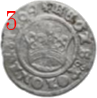
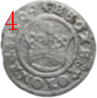
acum chiar e gata (sper)

Changed region(s): [[0.0309, 0.0918, 0.1856, 0.3061]]

diff --git a/Scripts/extract_imagine.py b/Scripts/extract_imagine.py
@@ -18,10 +18,11 @@ def magic(imagepath: str):
     epsilonper = 1
     epsilonbright = 0.005
     epsilondark = 0.005
-    symmetrystep = 0.051
-    symmetrythresh = 0.2
+    symmetrystep = 0.017
+    symmetrythresh = 0.04
     lowfilldiff = 5
     highfilldiff = 5
+    finalsymmetrythresh = 0.985
 
     ##########################################################################################################
 
@@ -37,7 +38,7 @@ def magic(imagepath: str):
     def adaugare_numar (a, num):
         draw = ImageDraw.Draw(a)
         font = ImageFont.truetype(fontfilepath, 25)
-        text= str(num)
+        text= str(num+1)
         draw.text((5, 5), text= text, fill="red", font=font, align="right")
         a.save(photofolder+"{}_withnumber.png".format(num))
 
@@ -50,8 +51,15 @@ def magic(imagepath: str):
 
     ##########################################################################################################
 
-    img = cv.imread(imgname, cv.IMREAD_COLOR)
-    rows, cols, _ = img.shape
+    originalimg = cv.imread(imgname, cv.IMREAD_UNCHANGED)
+    rows, cols, _ = originalimg.shape
+    for i in range(rows):
+        for j in range(cols):
+            if originalimg[i][j][3] < 255:
+                originalimg[i][j][0] = 255
+                originalimg[i][j][1] = 255
+                originalimg[i][j][2] = 255
+    img = cv.cvtColor(originalimg, cv.COLOR_BGRA2BGR)
 
     # turn background to white
 
@@ -244,11 +252,13 @@ def magic(imagepath: str):
     blanc = np.zeros((1, 1, 3), np.uint8)
     cv.imwrite(photofolder+"\\longlong.png", blanc)
 
-    theta = 0
+    theta = symmetrystep
     tanarray = []
     while theta < math.pi:
         tanarray.append(math.tan(theta))
         theta += symmetrystep
+    
+    onlyasymmetricalimg = img.copy()
 
     for c in range(len(contours)):
 
@@ -303,8 +313,107 @@ def magic(imagepath: str):
                 partialsumcol[i][j] = partialsumcol[i-1][j]
                 if binaryelement[i][j] == 255:
                     partialsumcol[i][j] += 1
+        
+        # cazul linie orizontala
+        
+        m = 0
+
+        legit = 0
+
+        # y = m * (x - centroid[1]) + centroid[0]
+        # x = (y - centroid[0]) / m + centroid[1]
+        area1 = 0
+        area2 = 0
+        if w <= h:
+            for j in range(w):
+                i = int(centroid[0])
+                if i >= 0 and i < h:
+                    if i > 0:
+                        area1 += partialsumcol[i-1][j]
+                    if i < h-1:
+                        area2 += (partialsumcol[h-1][j] - partialsumcol[i][j])
+                elif i < 0:
+                    area2 += partialsumcol[h-1][j]
+                else:
+                    area1 += partialsumcol[h-1][j]
+        else:
+            for i in range(h):
+                if i < int(centroid[0]):
+                    area1 += partialsumrow[i][w-1]
+                elif i > int(centroid[0]):
+                    area2 += partialsumrow[i][w-1]
+    
+        if abs(area1-area2) / (area1+area2+objectperimeters[c]//5) < symmetrythresh:
+            #iterat prin fiecare punct si calculat coordonatele punctului simetric(ib, jb)
+
+            legit = 0
+            for i in range (0, h):
+                for j in range (0, w):
+                    if binaryelement[i][j] == 255:
+                        jb = j
+                        ib = int(centroid[0]+(centroid[0]-i))
+
+                        if ib >= 0 and ib < h and jb >= 0 and jb < w and binaryelement[i][j] == binaryelement[ib][jb]:
+                            legit = legit + 1
+            legit = (legit + objectperimeters[c]//2) / nrpixels[c]
+        
+        if legit > objectsymmetryscore[c]:
+            objectsymmetryscore[c] = legit
+            objectsymmetryaxis[c] = m
+        
+        # cazul linie verticala
+        
+        m = math.tan(math.pi/2)
+
+        legit = 0
+
+        # y = m * (x - centroid[1]) + centroid[0]
+        # x = (y - centroid[0]) / m + centroid[1]
+        area1 = 0
+        area2 = 0
+        if w <= h:
+            for j in range(w):
+                if j < int(centroid[1]):
+                    area1 += partialsumcol[h-1][j]
+                elif j > int(centroid[1]):
+                    area2 += partialsumcol[h-1][j]
+        else:
+            for i in range(h):
+                j = int(centroid[1])
+                if j >= 0 and j < w:
+                    if j > 0:
+                        area1 += partialsumrow[i][j-1]
+                    if j < w-1:
+                        area2 += (partialsumrow[i][w-1] - partialsumrow[i][j])
+                elif j < 0:
+                    area2 += partialsumrow[i][w-1]
+                else:
+                    area1 += partialsumrow[i][w-1]
+                
+    
+        if abs(area1-area2) / (area1+area2+objectperimeters[c]//5) < symmetrythresh:
+            #iterat prin fiecare punct si calculat coordonatele punctului simetric(ib, jb)
+
+            legit = 0
+            for i in range (0, h):
+                for j in range (0, w):
+                    if binaryelement[i][j] == 255:
+                        ib = i
+                        jb = int(centroid[1] + (centroid[1]-j))
+
+                        if ib >= 0 and ib < h and jb >= 0 and jb < w and binaryelement[i][j] == binaryelement[ib][jb]:
+                            legit = legit + 1
+            legit = (legit + objectperimeters[c]//2) / nrpixels[c]
+        
+        if legit > objectsymmetryscore[c]:
+            objectsymmetryscore[c] = legit
+            objectsymmetryaxis[c] = m
+        
+        # cazuri generale
 
         for m in tanarray:
+
+            print(m)
 
             legit = 0
 
@@ -338,10 +447,8 @@ def magic(imagepath: str):
                             area2 += partialsumrow[i][w-1]
                         else:
                             area1 += partialsumrow[i][w-1]
-                
-                legit = abs(area1-area2) / (area1+area2+2)
 
-                if legit < symmetrythresh:
+                if abs(area1-area2) / (area1+area2+objectperimeters[c]//5) < symmetrythresh:
                     #iterat prin fiecare punct si calculat coordonatele punctului simetric(ib, jb)
 
                     legit = 0
@@ -356,54 +463,19 @@ def magic(imagepath: str):
 
                                 if ib >= 0 and ib < h and jb >= 0 and jb < w and binaryelement[i][j] == binaryelement[ib][jb]:
                                     legit = legit + 1
+                    legit = (legit + objectperimeters[c]//2) / nrpixels[c]
             
-            else:
-
-                # y = m * (x - centroid[1]) + centroid[0]
-                # x = (y - centroid[0]) / m + centroid[1]
-                area1 = 0
-                area2 = 0
-                if w <= h:
-                    for j in range(w):
-                        i = int(centroid[0])
-                        if i >= 0 and i < h:
-                            if i > 0:
-                                area1 += partialsumcol[i-1][j]
-                            if i < h-1:
-                                area2 += (partialsumcol[h-1][j] - partialsumcol[i][j])
-                        elif i < 0:
-                            area2 += partialsumcol[h-1][j]
-                        else:
-                            area1 += partialsumcol[h-1][j]
-                else:
-                    for i in range(h):
-                        if i < int(centroid[0]):
-                            area1 += partialsumrow[i][w-1]
-                        elif i > int(centroid[0]):
-                            area2 += partialsumrow[i][w-1]
-                
-                legit = abs(area1-area2) / (area1+area2+2)
-
-                if legit < symmetrythresh:
-                    #iterat prin fiecare punct si calculat coordonatele punctului simetric(ib, jb)
-
-                    legit = 0
-                    for i in range (0, h):
-                        for j in range (0, w):
-                            if binaryelement[i][j] == 255:
-                                jb = j
-                                ib = int(centroid[0]+(centroid[0]-i))
-
-                                if ib >= 0 and ib < h and jb >= 0 and jb < w and binaryelement[i][j] == binaryelement[ib][jb]:
-                                    legit = legit + 1
-            
-            legit = legit / nrpixels[c]
             if legit > objectsymmetryscore[c]:
                 objectsymmetryscore[c] = legit
                 objectsymmetryaxis[c] = m
         
         objectprops[c]['symmetry'] = objectsymmetryscore[c]
         objectprops[c]['symmetryaxis'] = objectsymmetryaxis[c]
+        objectprops[c]['contourlength'] = len(contours[c])
+
+        if objectsymmetryscore[c] >= finalsymmetrythresh:
+            cv.drawContours(onlyasymmetricalimg, [contours[c]], -1, color=bgcolor, thickness=cv.FILLED)
+            cv.drawContours(onlyasymmetricalimg, [contours[c]], -1, color=bgcolor, thickness=8)
         
         # concatenare
 
@@ -417,5 +489,9 @@ def magic(imagepath: str):
     objectpropsjson = json.dumps(objectprops, indent=2)
     with open(path+"data.txt", "w") as objectpropsfile:
         objectpropsfile.write(objectpropsjson)
+    
+    cv.imshow("onlyasymmetricalimg", onlyasymmetricalimg)
+    cv.waitKey(0)
+    cv.destroyAllWindows()
 
 magic("Website\\static\\users\\mf8SaEchO8o\\cake.png")
